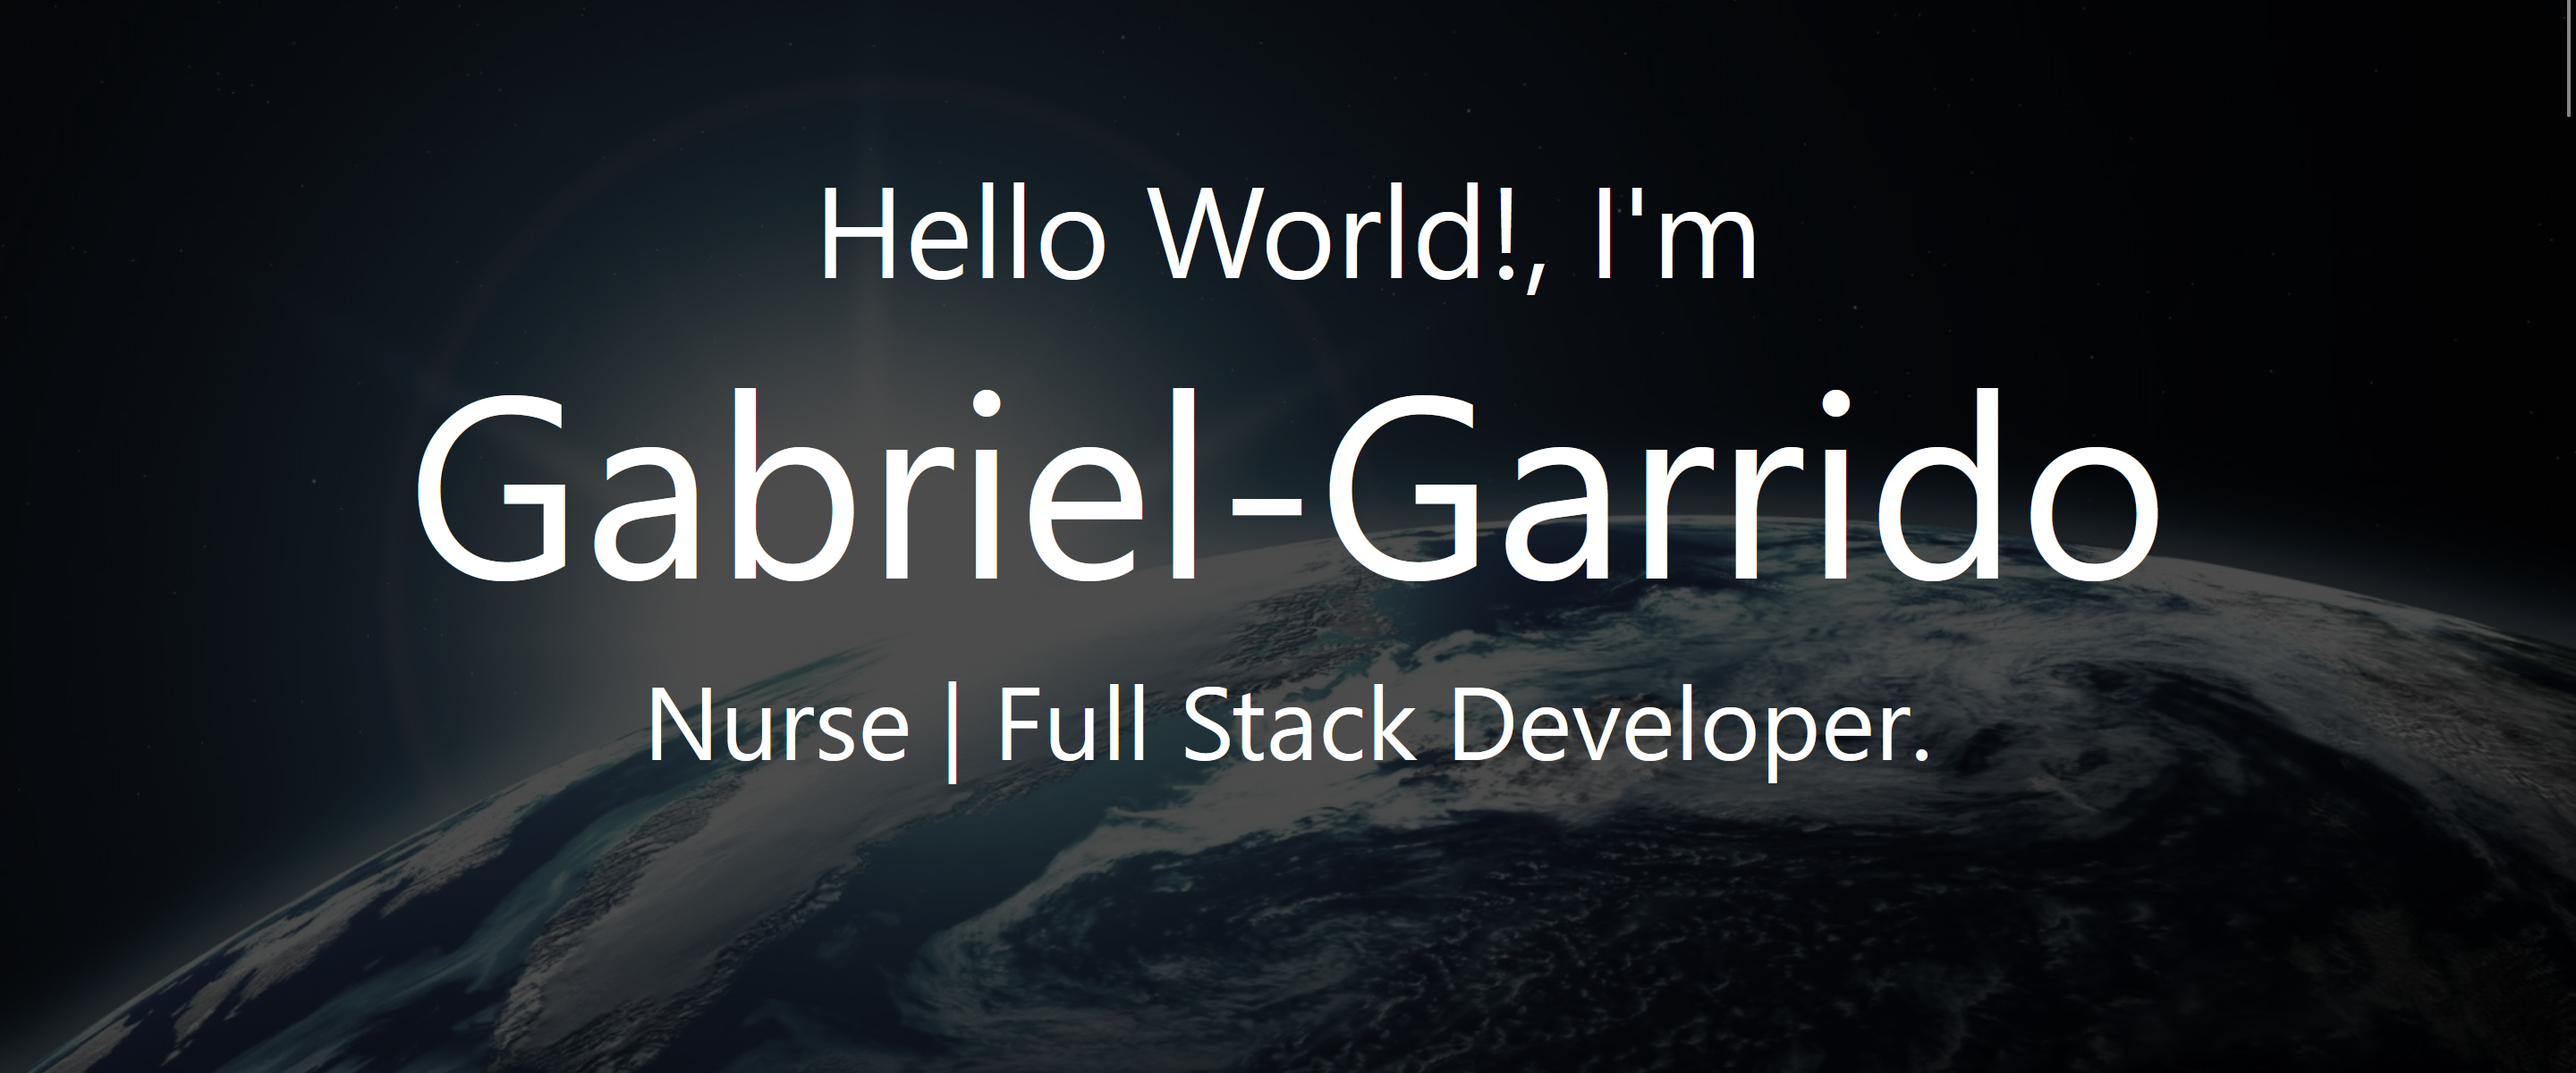
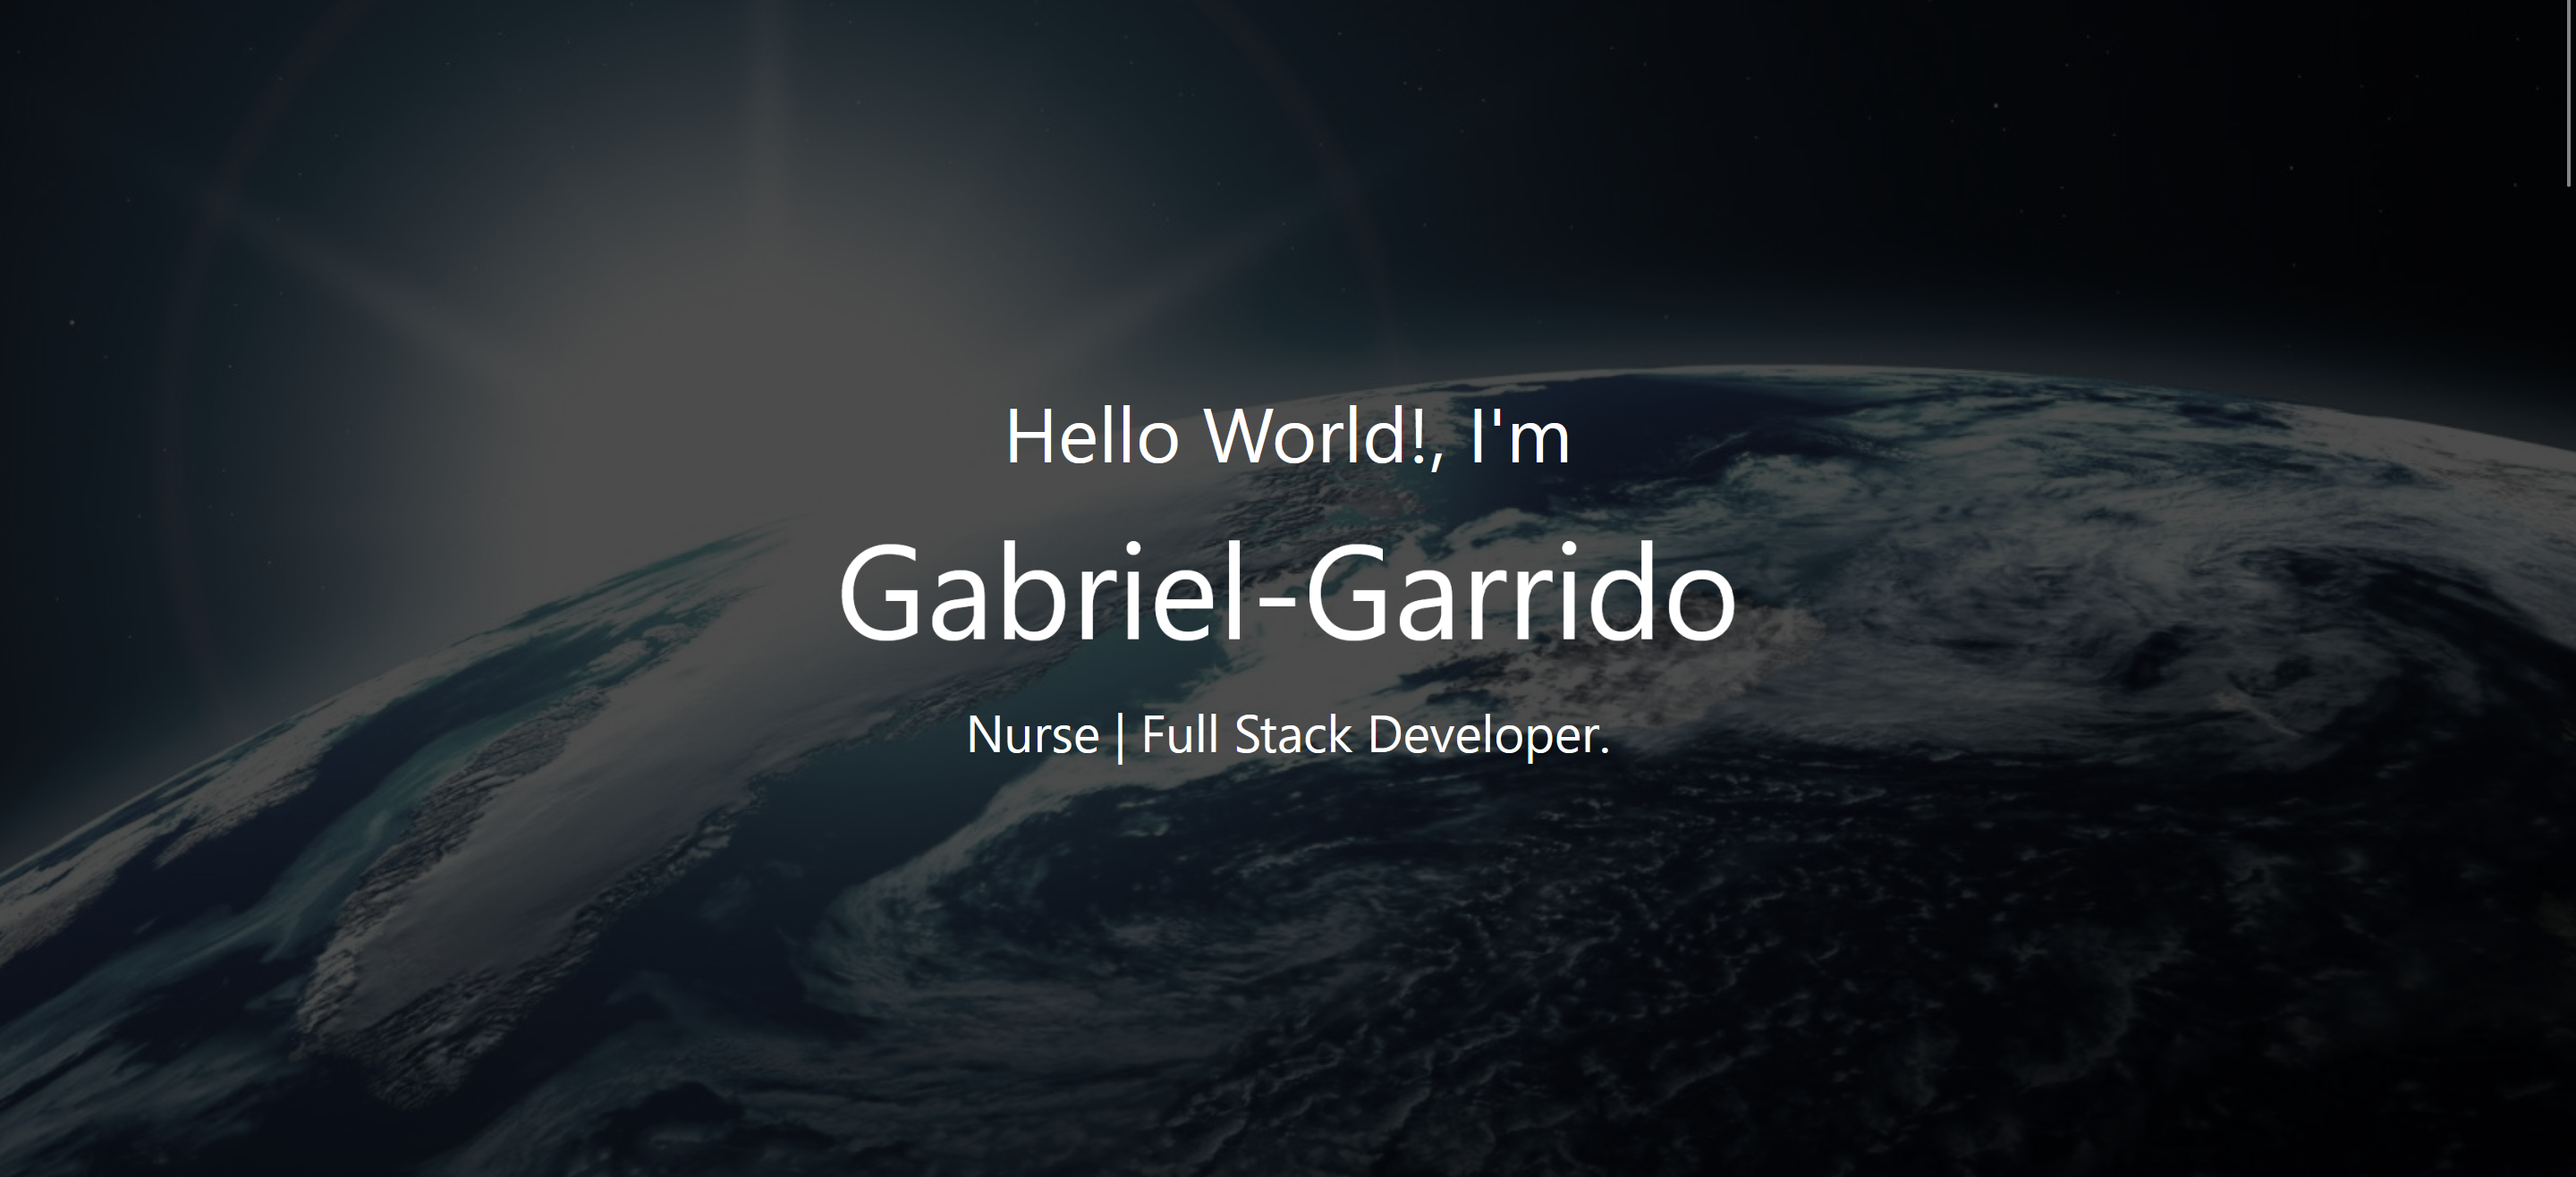
correction in styles

diff --git a/styles.css b/styles.css
@@ -89,25 +89,22 @@
 }
 
 #hello {
-    animation-name: slideInLeft;
-    animation-duration: 2s;
-    font-size: 5vw
+  animation-name: slideInLeft;
+  animation-duration: 2s;
+  font-size: 5vw
+  } 
 
-    } 
-  
 #gabriel {
-    
-    font-size: 9vw;
-    animation-name: zoomIn;
-    animation-duration: 30s;
-
-    }
+  font-size: 9vw;
+  animation-name: zoomIn;
+  animation-duration: 30s;
+  }
 
 #description {
-    animation-name: slideInRight;
-    animation-duration: 2s;
-    font-size: 4vw
-    }
+  animation-name: slideInRight;
+  animation-duration: 2s;
+  font-size: 4vw
+  }
 
 .btnMain {
     animation-name: fadeIn;

diff --git a/index.html b/index.html
@@ -56,7 +56,7 @@
               <div class="col text-center">
                 <h3 id="hello">Hello World!, I'm </h3>
                 <h1 id="gabriel">Gabriel-Garrido</h1>
-                <p class="d-none d-md-block" id="description">Nurse | Full Stack Developer.</p>
+                <p id="description">Nurse | Full Stack Developer.</p>
               </div>
             </div>
           </div>
